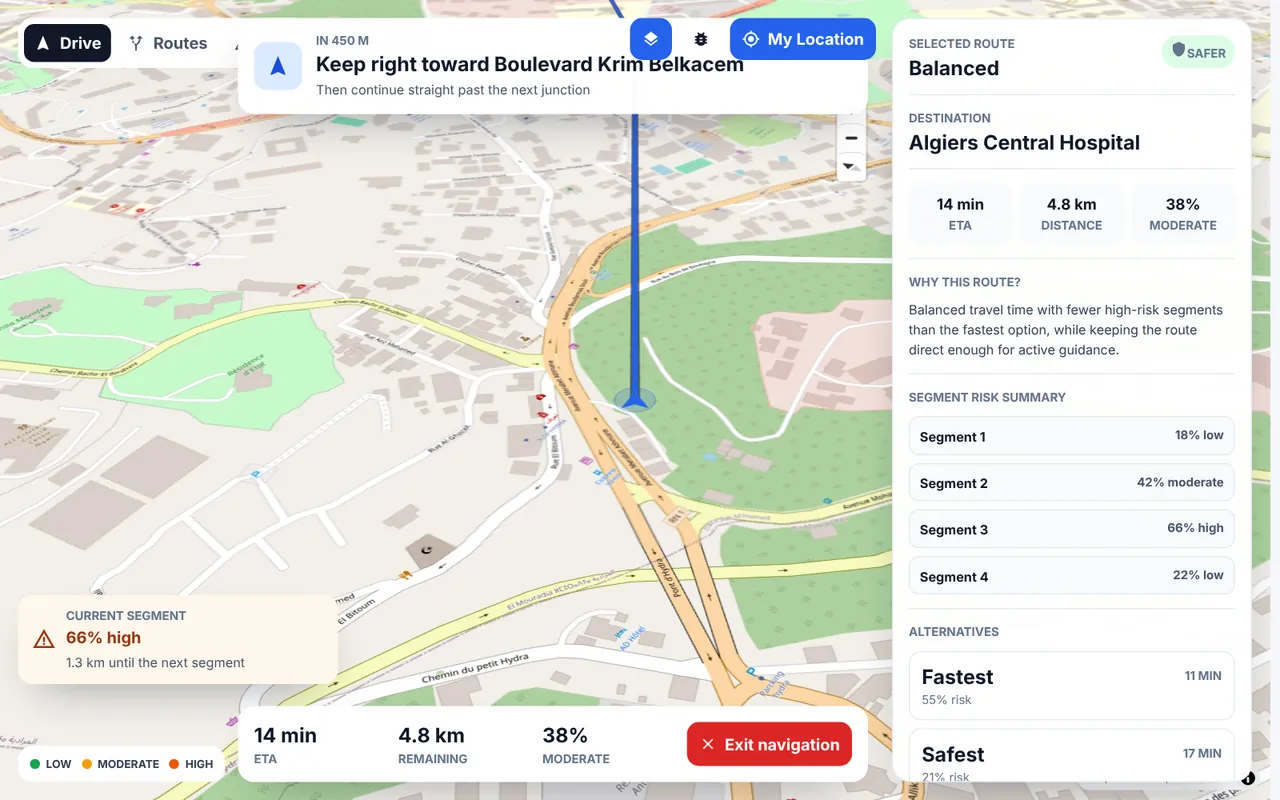
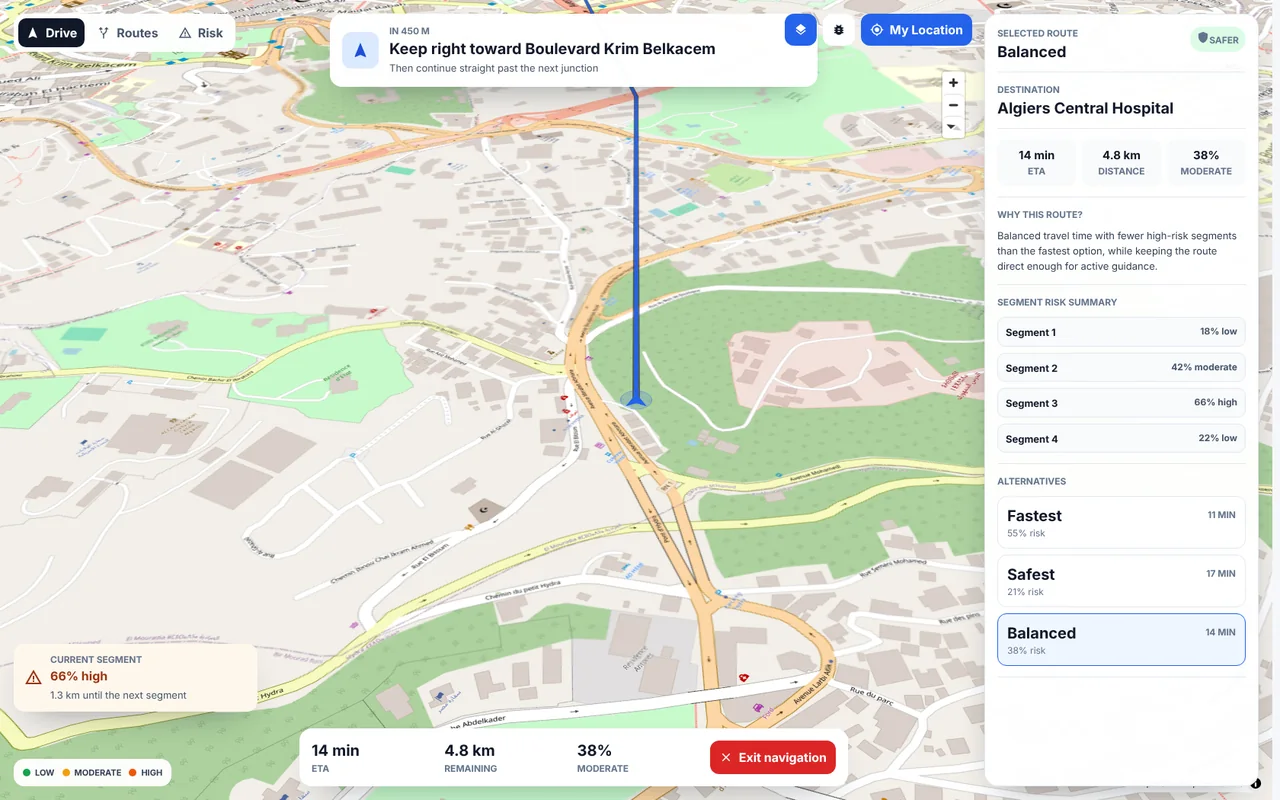
Fix the SIARA cover and add its emergency-service screens
The navigation cover was captured too narrow, so its instruction bar sat
under the map buttons; it is retaken at a width where the layout is clean.
The viewer gains the emergency dashboard, map, incident response, alerts
and assigned operations.

Claude-Session: https://claude.ai/code/session_01B9jUWsvu93BkdTJ7a6UgHN

diff --git a/src/data/projects.ts b/src/data/projects.ts
@@ -38,7 +38,7 @@ const gh = (repo: string): BaseLink => ({ label: CODE, url: `https://github.com/
 const BASE: BaseProject[] = [
   {
     id: 'siara',
-    shots: 3,
+    shots: 8,
     tags: [
       'React',
       'React Native',
@@ -141,7 +141,7 @@ const TEXT: Record<Lang, Record<string, ProjectText>> = {
       bullets: [
         'Plateforme temps réel d’aide à la décision pour la sécurité routière : signalement citoyen, cartes de zones dangereuses, modèles de risque et IA explicable.',
         'Applications web et mobile React, API Node.js / Express, PostgreSQL + PostGIS, alertes temps réel avec Socket.IO, interface en français, anglais et arabe (RTL).',
-        'Module police : zone de travail par wilaya et commune, incidents à moins de 500 m, vérification, affectation et historique des opérations.',
+        'Modules police et services d’urgence : zone de travail par wilaya et commune, incidents à moins de 500 m, vérification, affectation, missions et historique des opérations.',
       ],
     },
     sentiment: {
@@ -294,7 +294,7 @@ const TEXT: Record<Lang, Record<string, ProjectText>> = {
       bullets: [
         'A real-time road-safety decision-support platform: citizen accident reports, danger-zone maps, risk models and explainable AI.',
         'React web and mobile apps, a Node.js / Express API, PostgreSQL + PostGIS, real-time alerts over Socket.IO, and an English, French and Arabic (RTL) interface.',
-        'Police module: work zone by wilaya and commune, incidents within 500 m, verification, assignment and a full operation history.',
+        'Police and emergency-service modules: work zone by wilaya and commune, incidents within 500 m, verification, assignment, missions and a full operation history.',
       ],
     },
     sentiment: {
@@ -447,7 +447,7 @@ const TEXT: Record<Lang, Record<string, ProjectText>> = {
       bullets: [
         'منصة دعم قرار في الوقت الحقيقي للسلامة المرورية: بلاغات المواطنين، خرائط المناطق الخطرة، نماذج تقدير المخاطر وذكاء اصطناعي قابل للتفسير.',
         'تطبيقات ويب وموبايل بـ React، واجهة برمجية بـ Node.js / Express، قاعدة PostgreSQL + PostGIS، تنبيهات فورية عبر Socket.IO، وواجهة بالعربية والفرنسية والإنجليزية.',
-        'وحدة الشرطة: منطقة العمل حسب الولاية والبلدية، الحوادث ضمن 500 متر، التحقق والإسناد وسجل كامل للعمليات.',
+        'وحدتا الشرطة وخدمات الطوارئ: منطقة العمل حسب الولاية والبلدية، الحوادث ضمن 500 متر، التحقق والإسناد، المهام وسجل كامل للعمليات.',
       ],
     },
     sentiment: {
@@ -598,7 +598,7 @@ const TEXT: Record<Lang, Record<string, ProjectText>> = {
  * name: the files keep stable names, so the query string is what tells a
  * browser that already cached the old one to fetch the new one.
  */
-export const PICTURES_REV = 3;
+export const PICTURES_REV = 4;
 
 /** Where a project's cover lives in public/. */
 export const projectImage = (id: string) => `/projects/${id}.webp?v=${PICTURES_REV}`;
